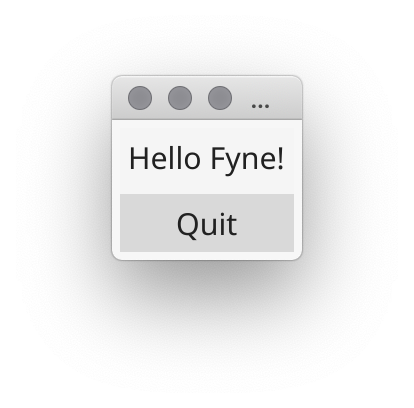
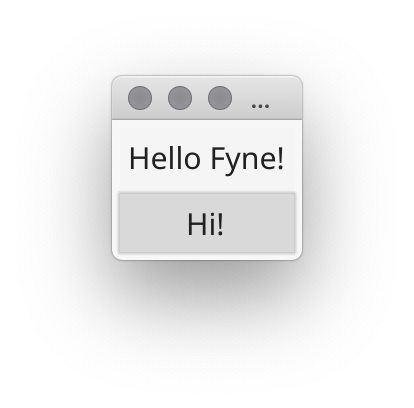
Update hello app and tidy old images

Changed region(s): [[0.2609, 0.4706, 0.7246, 0.6471]]

diff --git a/README.md b/README.md
@@ -61,18 +61,19 @@ Open a new file and you're ready to write your first app!
 package main
 
 import (
-	"fyne.io/fyne/widget"
 	"fyne.io/fyne/app"
+	"fyne.io/fyne/widget"
 )
 
 func main() {
-	app := app.New()
+	a := app.New()
+	w := a.NewWindow("Hello")
 
-	w := app.NewWindow("Hello")
+	hello := widget.NewLabel("Hello Fyne!")
 	w.SetContent(widget.NewVBox(
-		widget.NewLabel("Hello Fyne!"),
-		widget.NewButton("Quit", func() {
-			app.Quit()
+		hello,
+		widget.NewButton("Hi!", func() {
+			hello.SetText("Welcome :)")
 		}),
 	))
 
@@ -86,8 +87,12 @@ And you can run that simply as:
 
 It should look like this:
 
-<p align="center" markdown="1">
-  <img src="img/hello-normal.png" width="207" height="204" alt="Fyne Hello Dark Theme" />
+<p align="center">
+  <table cellpadding="0" cellspacing="0" style="margin: auto; border-collapse: collapse;"><tr><td>
+    <img src="img/hello-light.png" width="207" height="204" alt="Fyne Hello Dark Theme" />
+  </td><td>
+    <img src="img/hello-dark.png" width="207" height="204" alt="Fyne Hello Dark Theme" />
+  </td></tr></table>
 </p>
 
 > Note that Windows applications load from a command prompt by default, which means if you click an icon you may see a command window.
